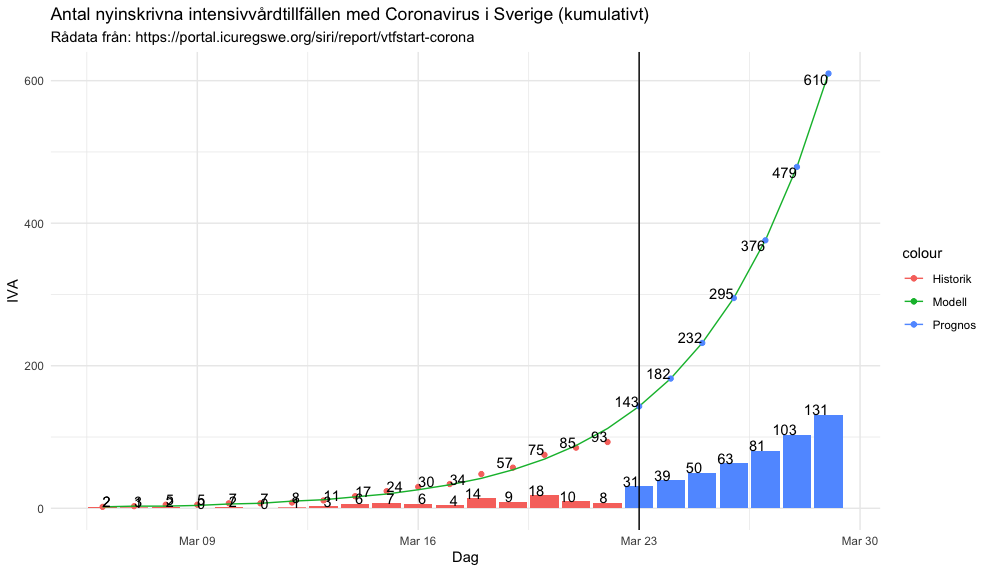
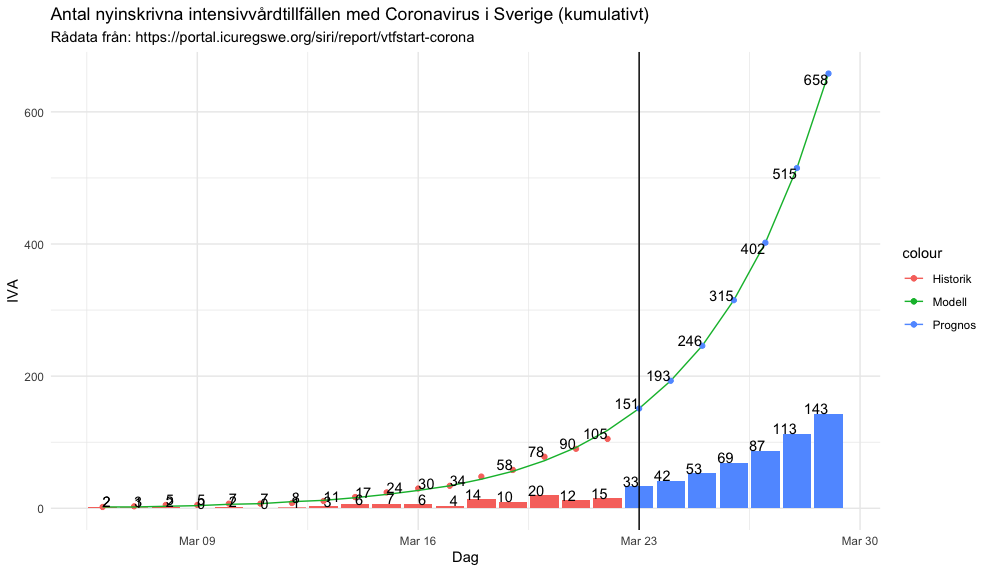
SIR data modified historically, update accordingly

diff --git a/README.md b/README.md
@@ -19,17 +19,17 @@ lm(formula = log2(IVAFall) ~ Dag, data = data)
 
 Residuals:
      Min       1Q   Median       3Q      Max 
--0.33730 -0.18198  0.02853  0.15986  0.37650 
+-0.34528 -0.17058  0.03428  0.11596  0.39247 
 
 Coefficients:
             Estimate Std. Error t value Pr(>|t|)    
-(Intercept)  0.90153    0.10380   8.685 3.09e-07 ***
-Dag          0.34797    0.01013  34.349 1.12e-15 ***
+(Intercept) 0.867598   0.097671   8.883 2.32e-07 ***
+Dag         0.353954   0.009532  37.134 3.53e-16 ***
 ---
 Signif. codes:  0 ‘***’ 0.001 ‘**’ 0.01 ‘*’ 0.05 ‘.’ 0.1 ‘ ’ 1
 
-Residual standard error: 0.2046 on 15 degrees of freedom
-Multiple R-squared:  0.9874,	Adjusted R-squared:  0.9866 
-F-statistic:  1180 on 1 and 15 DF,  p-value: 1.122e-15
+Residual standard error: 0.1925 on 15 degrees of freedom
+Multiple R-squared:  0.9892,	Adjusted R-squared:  0.9885 
+F-statistic:  1379 on 1 and 15 DF,  p-value: 3.528e-16
 ```
 
